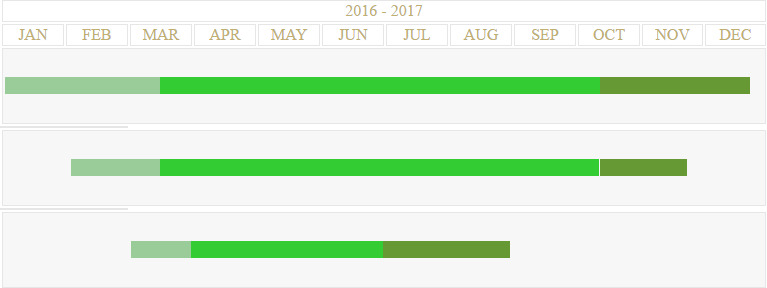
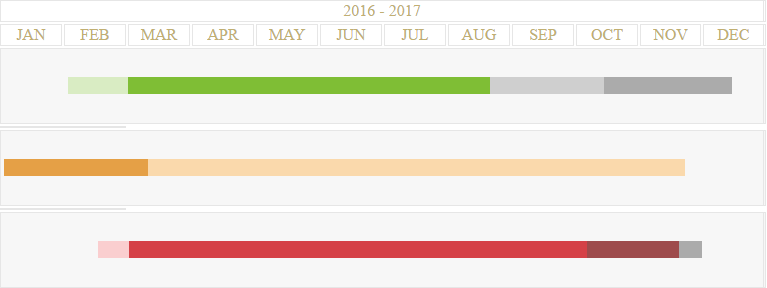
updated with colors ..

diff --git a/src/app/gantt-chart/gantt-chart.component.ts b/src/app/gantt-chart/gantt-chart.component.ts
@@ -17,26 +17,27 @@ export class GanttChartComponent implements OnInit {
   @Input('gantt') set gantt(gantt) {
     this._gantt = gantt;
     this.calculateGantt(this._gantt)
+  
     console.log(gantt)
   }
 
   //Bar1
-  color1: string = "#d9ecc3";
+  color1: string = "";
   position1: string = '';
   width1: string = '';
 
   //Bar2
-  color2: string = "#7fbe35";
+  color2: string = "";
   position2: string = '';
   width2: string = '';
 
   //Bar3
-  color3: string = "#cfcfcf";
+  color3: string = "";
   position3: string = '';
   width3: string = '';
 
   //Bar4
-  color4: string = "#ababab";
+  color4: string = "";
   position4: string = '';
   width4: string = '';
 
@@ -79,7 +80,7 @@ export class GanttChartComponent implements OnInit {
     this.width4 = this.getPositionPercentage(gannt.ForcastDay - gannt.EndActualDay);
 
 
-
+   this.calculateGanttStatus(gannt);
     console.log('forcast case ')
     console.log('ForcastDay ', gannt.ForcastDay)
     console.log('EndPlannedDay ', gannt.EndPlannedDay)
@@ -89,7 +90,33 @@ export class GanttChartComponent implements OnInit {
     console.log('this.StartProgress', this.StartProgress)
     console.log('gannt.Progress ', gannt.Progress)
   }
+  
+calculateGanttStatus(gannt:Gantt):any{
+  if(gannt.Status==1)
+  {
+    this.color1="#d9ecc3";
+    this.color2="#7fbe35";
+    this.color3="#cfcfcf";
+    this.color4="#ababab";
+  }
+  else if(gannt.Status==2)
+  {
+    this.color1="#FACECF";
+    this.color2="#D54147";
+    this.color3="#9E4B4C";
+    if(gannt.ForcastDay!=0)
+        this.color4="#ababab";
+  }
+    else
+  {
+    this.color1="#E5A046";
+    this.color2="#E5A046";
+    this.color3="#FAD9AC";
+   // this.color4="#ababab";
+  }
 
+
+}
   getPositionPercentage(position: number): string {
     return ((position * 100) / 365).toString() + '%';
   }

diff --git a/src/app/gantt-chart/ganttModel.ts b/src/app/gantt-chart/ganttModel.ts
@@ -11,9 +11,9 @@ export class Gantt {
     EndActualDay: number;
     ForcastDay: number;
     Progress: number;
-
+    Status:number;
     constructor( StartPlanned: string, EndPlanned: string, StartActual: string, EndActual: string,
-       ForcastDate: string, Progress: number) {
+       ForcastDate: string, Progress: number,Status:number) {
 
         this.StartPlanned = new Date(StartPlanned);
         this.StartPlannedDay = this.getDayOfTheYear(this.StartPlanned);
@@ -31,7 +31,7 @@ export class Gantt {
         this.ForcastDay = this.getDayOfTheYear(this.ForcastDate);
 
         this.Progress = Progress;
-
+this.Status=Status;
         // console.log("Forcast", this.ForcastDate);
         // console.log("ForcastDay", this.ForcastDay);
         // console.log("StartPlannedDay", this.StartPlannedDay);

diff --git a/src/app/app.component.ts b/src/app/app.component.ts
@@ -21,9 +21,10 @@ export class AppComponent {
         // EndActual
         // ForcastDate
         //Progress
-        this.gantt1 = new Gantt("02/01/2016", "06/30/2016", "03/01/2016", "10/15/2016", "12/15/2016", 60);
-        this.gantt2 = new Gantt("01/01/2016", "10/12/2016", "01/05/2016", "11/23/2016", "11/25/2016", 20);
-        this.gantt3 = new Gantt("02/15/2016", "6/30/2016", "03/01/2016", "11/20/2016", "12/01/2016", 80);
+        //Status
+        this.gantt1 = new Gantt("02/01/2016", "06/30/2016", "03/01/2016", "10/15/2016", "12/15/2016", 60,1);
+        this.gantt2 = new Gantt("01/01/2016", "10/12/2016", "01/05/2016", "11/23/2016", "11/25/2016", 20,3);
+        this.gantt3 = new Gantt("02/15/2016", "6/30/2016", "03/01/2016", "11/20/2016", "12/01/2016", 80,2);
     }
 
 }
